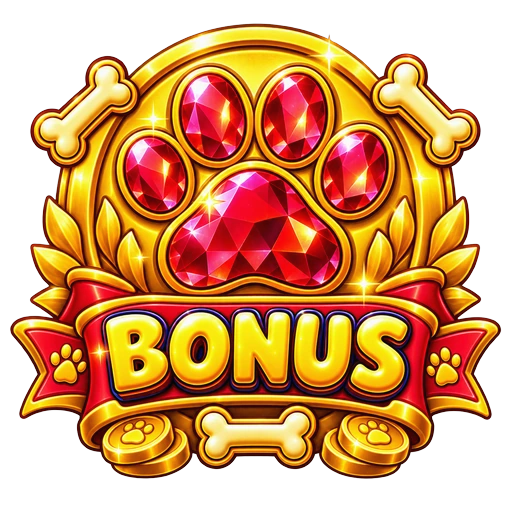
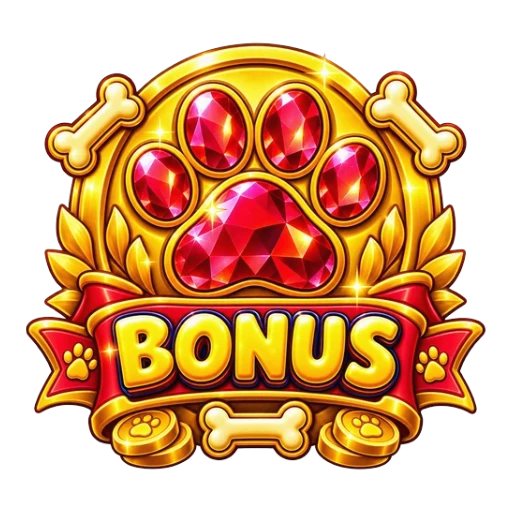
Les symboles du chenil sont dessines a la meme taille, et plus grands
Mesure sur les onze planches de 512 x 512 : les lettres et les petits
symboles n occupaient que 36 a 57 % de leur carre (K 57 %, etoile 47 %,
noeud 56 %), BONUS et WILD 90 %. Dans une case bornee par sa hauteur, un K
faisait la moitie du WILD, et sur telephone 19 px. Chaque planche est
recadree sur ses pixels opaques et remise dans son carre a 90 % : meme
regle pour les onze, les dessins ne dependent plus des marges que le
generateur a laissees. `?v=2` sur les adresses, sinon les navigateurs
gardent les anciennes.

Sur telephone, l ouverture du cadre (rapport 2,65) borne une case a 33 px :
le symbole deborde de sa case a 125 %, centre — 150 % essaye d abord
faisait se chevaucher les rangees. Mesure a 400 px : 33 -> 41 px, rien ne
sort de la fenetre du cadre.

chenil_info : 38 verifications, tout passe.

Claude-Session: https://claude.ai/code/session_01VRWq2JfnGuTXKXa4zN3hZL

diff --git a/swoge_chenil.html b/swoge_chenil.html
@@ -599,6 +599,18 @@ html,body{ background:#EEF3FB; color:#0B1B36; }
 .ch-c img{ position:absolute; left:-2%; top:-2%; width:104%; height:104%;
   object-fit:contain; display:block; z-index:1;
   transition:transform .16s ease, opacity .16s ease; }
+/* ---- SUR TELEPHONE, LE SYMBOLE DEBORDE DE SA CASE ----
+   L ouverture du cadre a un rapport de 2,65 : a 380 px de large, une case
+   fait 50 x 33 et un symbole carre tient dans 33 px. On le laisse deborder
+   en hauteur, centre sur sa case. A 150 % (essaye d abord) les rangees se
+   marchaient dessus et la grille ne se lisait plus ; a 125 % le chevauchement
+   fait un huitieme de rangee, ce que les vraies machines font aussi — les
+   cases n ont pas de fond, seuls les dessins se voient. Mesure a 400 px :
+   33 -> 41 px par symbole, et rien ne sort de la fenetre du cadre. */
+@media (max-width:620px){
+  .ch-c img{ left:-12.5%; top:-12.5%; width:125%; height:125%; }
+  .ch-c.tourne{ overflow:visible; }
+}
 .ch-c.pose img{ animation:chPose .28s cubic-bezier(.2,1.5,.4,1); }
 /* ---- LE MULTIPLICATEUR DU WILD ----
    Le Wild occupe une case et non une colonne : son multiplicateur se pose
@@ -1428,7 +1440,7 @@ nav.sb-ancre{display:flex;align-items:center;gap:12px;
 
     <div class="ch-tete">
       <div class="ch-mise"><small>BET</small><span id="chMise">—</span></div>
-      <img class="ch-logo" src="img/chenil/sym_collier.webp" alt="SWOGE Kennel">
+      <img class="ch-logo" src="img/chenil/sym_collier.webp?v=2" alt="SWOGE Kennel">
       <div class="ch-gain" id="chGain"></div>
     </div>
 
@@ -2057,7 +2069,10 @@ nav.sb-ancre{display:flex;align-items:center;gap:12px;
      vingt $SWOGE de plus que ce qui sera reellement debite. Sur le bouton
      qui declenche le paiement, on ecrit le chiffre entier. */
   function chExact(n){ return (Number(n)||0).toLocaleString("en-US"); }
-  function chImg(s){ return "img/chenil/"+CH_FICHIER[s]+".webp"; }
+  /* `?v=2` : les onze planches ont ete recadrees le 18 septembre 2026 (les
+     lettres n occupaient que 36 a 57 % de leur carre, BONUS et WILD 90 %) ;
+     sans la question, les navigateurs gardent les anciennes. */
+  function chImg(s){ return "img/chenil/"+CH_FICHIER[s]+".webp?v=2"; }
   /* Le nom du fichier n'est pas le nom du symbole : le serveur parle de `j` et
      de `crane`, le dossier contient `sym_j.webp`. Une table plutot qu'une
      concatenation — le jour ou une image est renommee, ca se voit ici et pas
